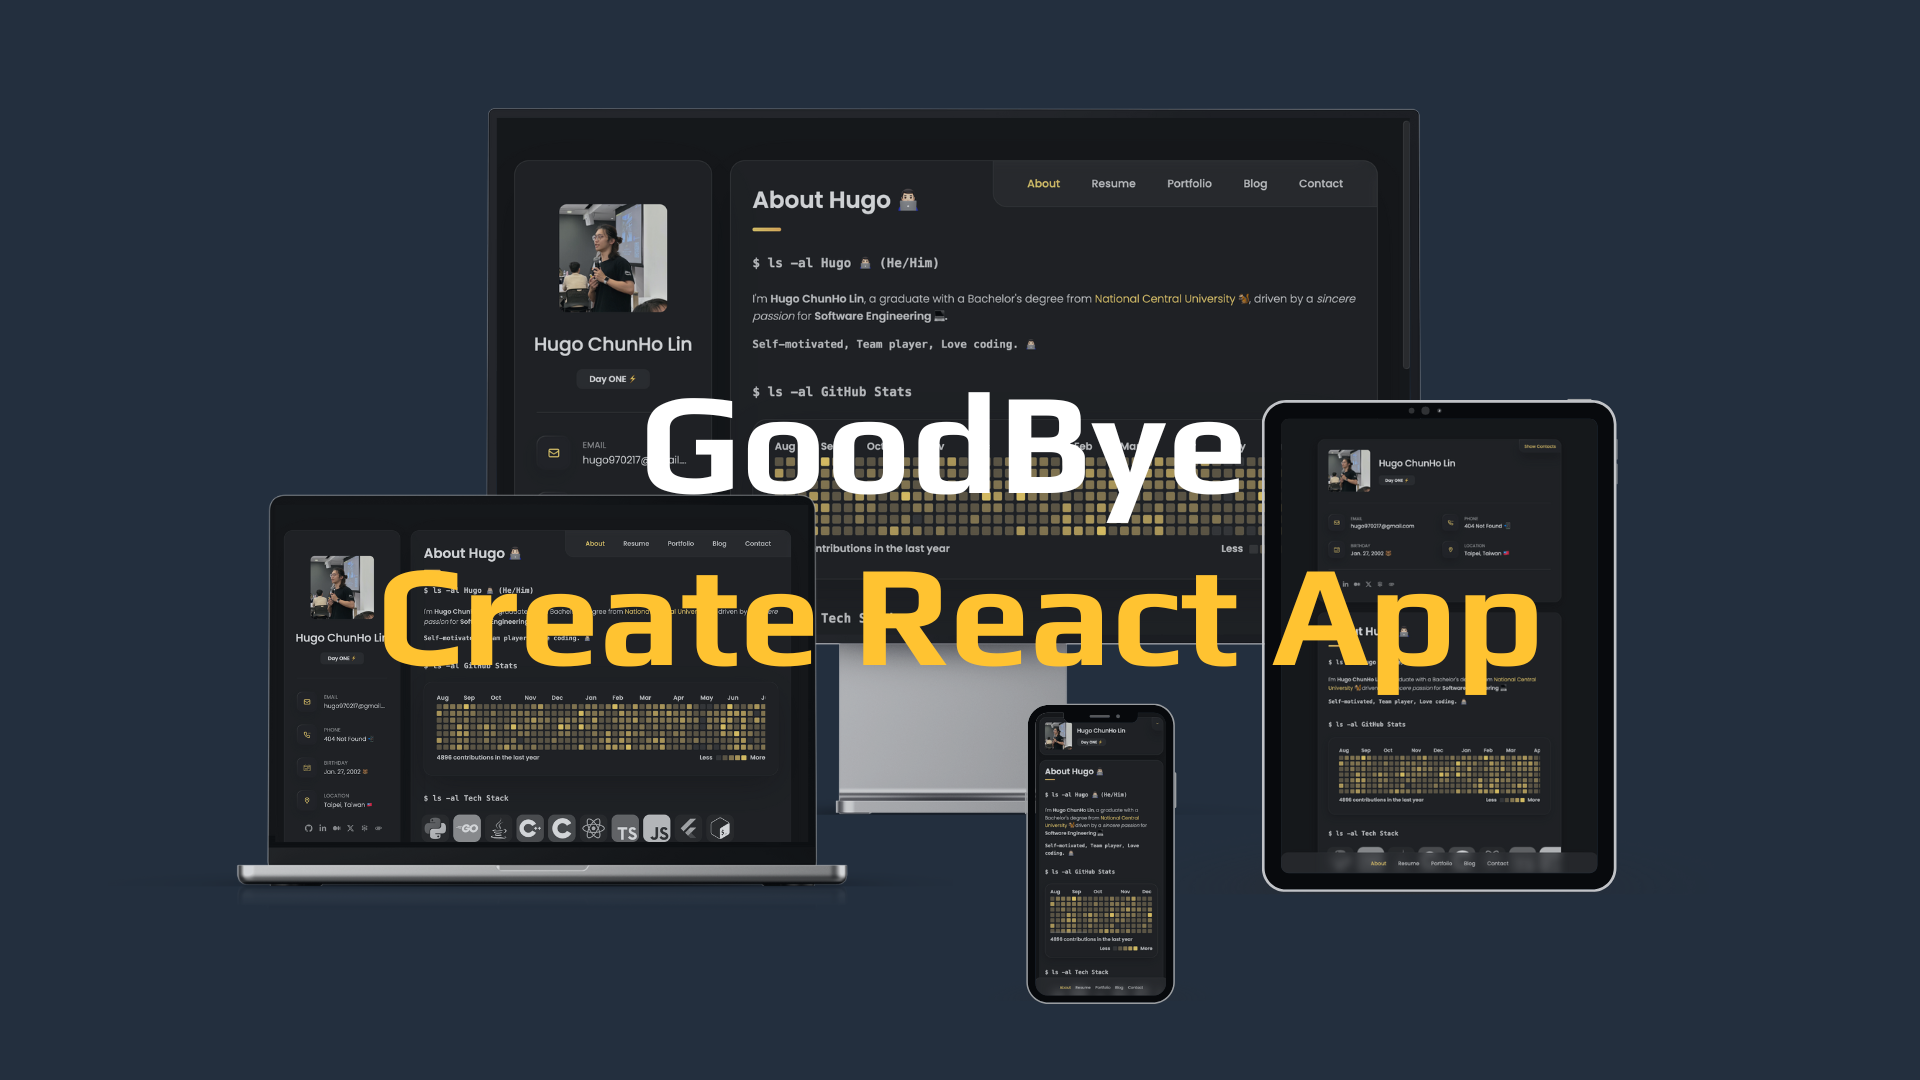
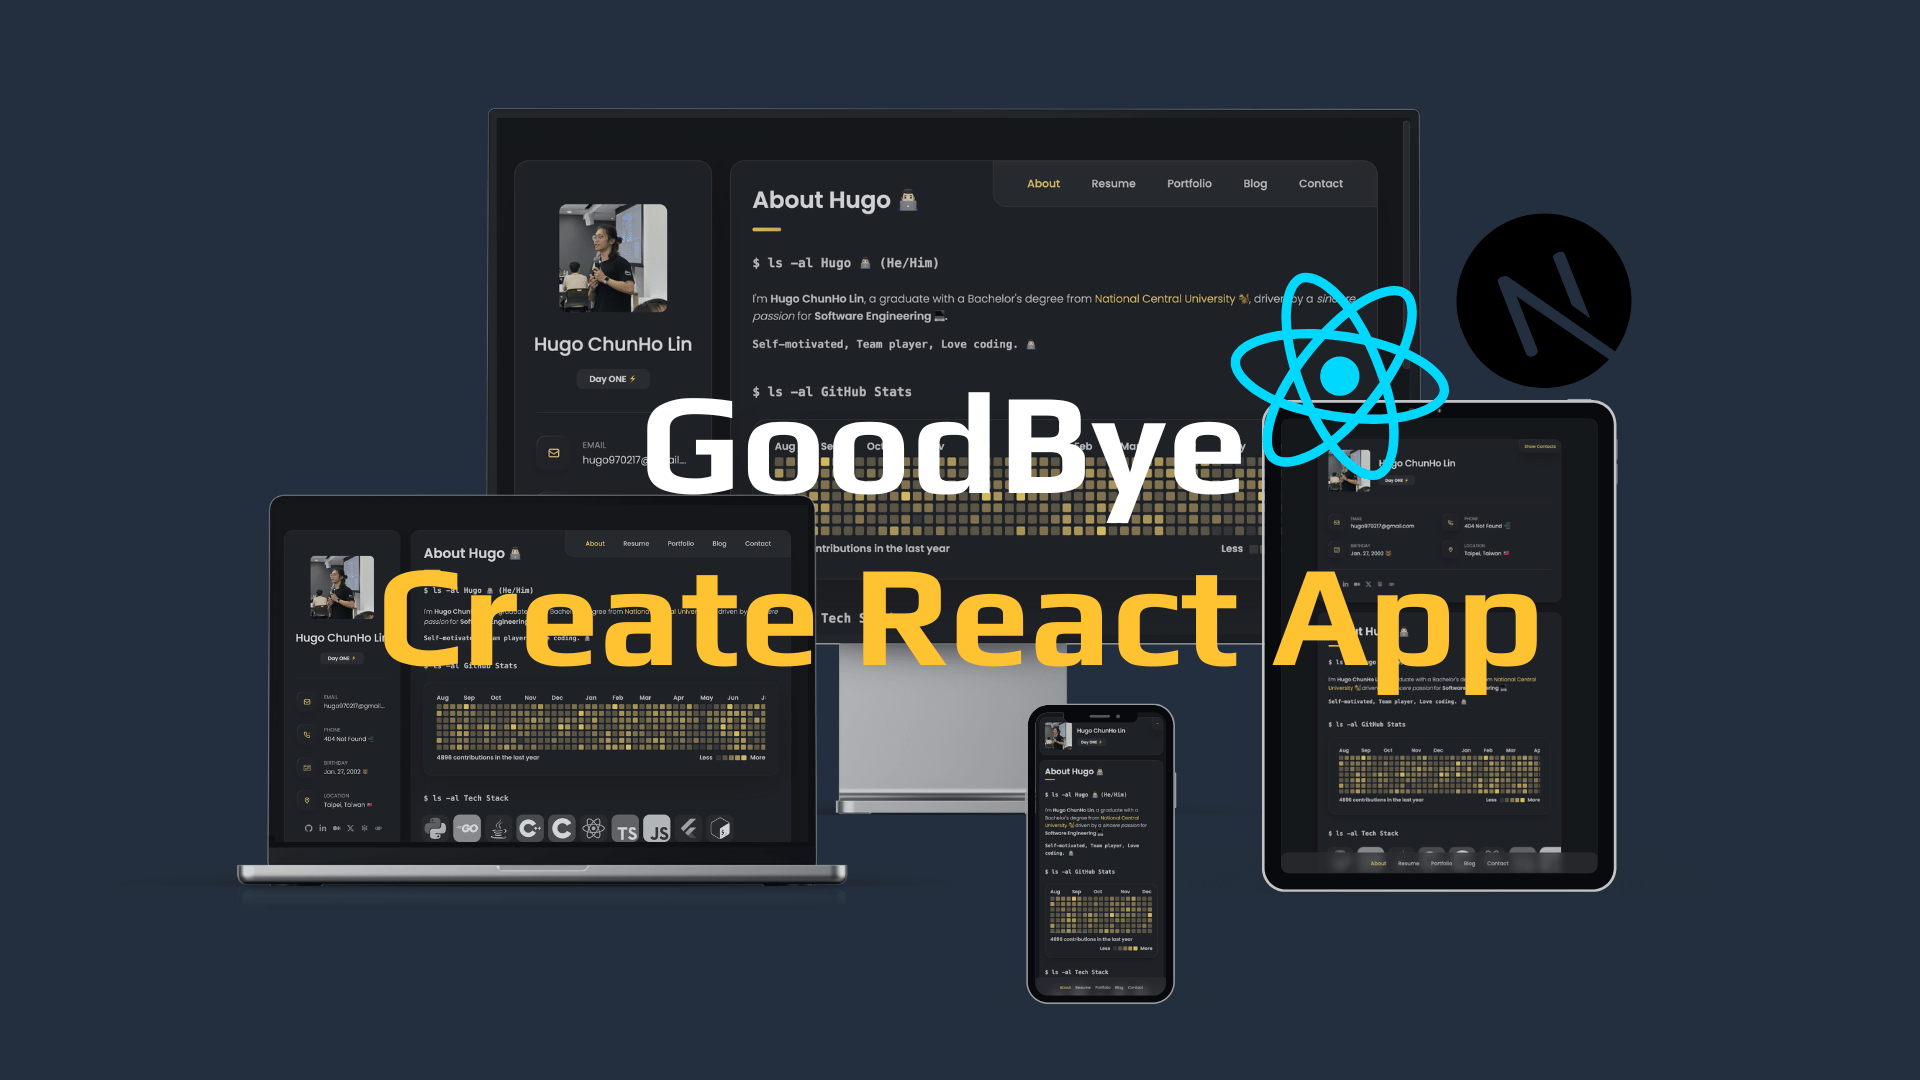
feat(post): add Updating an Outdated Create React App (CRA) to Support TypeScript 5.x

Changed region(s): [[0.625, 0.1833, 0.875, 0.4583]]

diff --git a/apps/web/src/contents/goodbye-react-create-app.md b/apps/web/src/contents/goodbye-react-create-app.md
@@ -1,17 +1,18 @@
 ---
-title: 讓老舊的 Create React App (CRA) 支援 TypeScript `5.x` 吧！
+title: Updating an Outdated Create React App (CRA) to Support TypeScript 5.x
 category: Project
 publishedAt: 2024-08-10
-summary: Create React App (CRA) 已經不再維護了，不過我們可以透過 `overrides` 來讓 CRA 支援 TypeScript `5.x` 的版本，讓我們來看看如何做吧！
+summary: Create React App (CRA) was officially deprecated by Facebook, and it's time to move on to other alternatives. However, we can still use CRA with TypeScript `5.x` by adding `overrides` to the `package.json`. Let's see how to do it!
 tags: 
   - React
   - Typescript
 banner: /images/banner/goodbye-react-create-app.png
-alt: 讓老舊的 Create React App (CRA) 支援 TypeScript `5.x` 吧！
+alt: Updating an Outdated Create React App (CRA) to Support TypeScript 5.x
 ---
 
+> Create React App (CRA) was officially deprecated by Facebook, and it's time to move on to other alternatives. However, we can still use CRA with TypeScript `5.x` by adding `overrides` to the `package.json`. Let's see how to do it!
 
-在最近這個暑假中，我幾乎都在為了我的個人網站 -- [1chooo.com](https://1chooo.com) 做開發，把一些過去想加上卻沒時間更新的技術債補回去，過去我採用的是 [React](https://react.dev/) 搭配 [TypeScript](https://www.typescriptlang.org/) 來開發，不過最近有遇到了一些問題，其中一個就是「[我無法將 Typescript 升級到 `^5` 的版本](https://github.com/1chooo/1chooo.com/pull/76)」，會出現以下的錯誤訊息：
+During this past summer, I dedicated most of my time to developing my personal website, [1chooo.com](https://1chooo.com), addressing several technical debts that I had postponed due to time constraints. In the past, I primarily used [React](https://react.dev/) alongside [TypeScript](https://www.typescriptlang.org/) for development. However, recently, I encountered some issues, one of which is related to "[chore(deps): bump typescript from 4.9.5 to 5.5.4](https://github.com/1chooo/1chooo.com/pull/76)." The following error message was displayed:
 
 ```typescript
 npm error code ERESOLVE
@@ -36,22 +37,23 @@ npm error node_modules/react-scripts
 npm error   react-scripts@"5.0.1" from the root project
 ```
 
-因此想透過本篇想紀錄的解決過程，以及相關脈絡資訊，如果電腦需要安裝 [Node.js, npm](https://nodejs.org/) 的話，可以參考我過去的文章 -- [如何在 Mac 安裝 Node.js & NPM](/2024/01/03/dev-env/mac-install-nodejs-npm/) 來安裝。
+Therefore, through this post, I aim to document the resolution process and provide the relevant contextual information. If your system requires the installation of [Node.js and npm](https://nodejs.org/), you can refer to my previous article — [How to Install Node.js & NPM on Mac](/blog/mac-install-nodejs-npm) — for installation instructions.
 
-![讓老舊的 Create React App (CRA) 支援 TypeScript `5.x` 吧！ by Hugo](/images/banner/goodbye-react-create-app.png)
+![Updating an Outdated Create React App (CRA) to Support TypeScript 5.x by Hugo](/images/banner/goodbye-react-create-app.png)
 
-過去我建立 React 專案的方式是透過 [`create-react-app` (CRA)](https://github.com/facebook/create-react-app) 來建立，不過在這次升級的過程中，我發現 [`create-react-app`](https://github.com/facebook/create-react-app) 似乎只支援到 [`v5.0.1`](https://github.com/facebook/create-react-app/releases/tag/v5.0.1) 的版本，並且可以從 Facebook 的 GitHub Repo 中發現，目前 CRA 已經沒有人在維護了，上次更新已經是 2022 年了，所以想當然爾，現在的 CRA 沒有支援 TypeScript `5.x` 的版本，只能支援到 `4.x` 的版本，這也是為什麼我目前無法升級 TypeScript 到 `5.x` 的原因。
+In the past, I used [`create-react-app` (CRA)](https://github.com/facebook/create-react-app) to set up my React projects. However, during this upgrade process, I discovered that CRA only supports up to [`v5.0.1`](https://github.com/facebook/create-react-app/releases/tag/v5.0.1). Looking at Facebook's GitHub repository, it's evident that CRA is no longer maintained, with its last update in 2022. Unsurprisingly, CRA does not support TypeScript `5.x`, only up to version `4.x`, which explains why I was unable to upgrade TypeScript to `5.x`.
+
 ![create-react-app v5.0.1](/images/posts/goodbye-react-create-app/create-react-app-v-5-0-1.png)
 
-因此我就開始在網路上搜尋為什麼 CRA 不再維護，以及有沒有其他的替代方案，首先我從 [React](https://react.dev/) 的官方文件中就寫明了建立 React App 的方式沒有 `create-react-app` 這個方式，反倒是建議使用像是 [Next.js, Remix, Gatsby, Expo (for native apps), etc.](https://react.dev/learn/start-a-new-react-project) 這些框架來建立 React App，我想這也是為什麼 CRA 不再維護的原因之一。
+I then started searching online for the reasons why CRA is no longer maintained and whether there are any alternatives. First, I found that [React’s](https://react.dev/) official documentation no longer mentions `create-react-app` as a recommended way to set up a React project. Instead, it suggests using frameworks like [Next.js, Remix, Gatsby, Expo (for native apps), etc.](https://react.dev/learn/start-a-new-react-project). This shift could be one of the reasons CRA is no longer supported.
 
 ![Start a New React Project](/images/posts/goodbye-react-create-app/start-a-new-react-project.png)
 
-我在 [Goodbye create-react-app](https://dev.to/ag2byte/create-react-app-is-officially-dead-h7o) 這篇文章中找到了一些 CRA 不再維護的原因，其中提到 CRA 這個專案已經被 Facebook 官方放棄了，主要是因為效能的關係，對於現行的方法而言太慢了，初始化的階段會花費太多時間，另外 CRA 也有一些因為過時所產生的警告，這些問題已經困擾開發者很久了，然而對於初學者來說也很難解決這些問題，因此 CRA 這個方式已經不再是最佳的選擇了。
+Additionally, I found an insightful article, [Goodbye create-react-app](https://dev.to/ag2byte/create-react-app-is-officially-dead-h7o), which outlines some of the reasons behind CRA’s discontinuation. The article explains that CRA was officially abandoned by Facebook due to performance issues. Specifically, it’s too slow for current needs, especially during initialization, and it produces outdated warnings that have frustrated developers for quite some time. These problems are also difficult for beginners to resolve, making CRA an outdated choice.
 
-另外我也在 [`create-react-app` (CRA)](https://github.com/facebook/create-react-app) 的 [Issues](https://github.com/facebook/create-react-app/issues/12628) 中找到一個別再用 CRA 的理由以及其他合適的建立 App 方法，總之挖掘資訊到現在，發現 CRA 基本上是被詬病已久的舊時代產物了，也是時候要更新。
+I also came across an [issue](https://github.com/facebook/create-react-app/issues/12628) in the [`create-react-app`](https://github.com/facebook/create-react-app) repository, which not only highlights reasons to avoid using CRA but also suggests alternatives for creating new apps. At this point, it became clear that CRA is an outdated relic of a previous era, and it's time to move on.
 
-不過身為軟體工程師，還是想要把問題解決，畢竟只是更新一個 Dependencies 而已，總會有解法讓我繼續使用 CRA 並且又能夠升級 TypeScript 到 `5.x` 的版本吧！於是我就找到了一個在 [`create-react-app`](https://github.com/facebook/create-react-app) 的 PR -- [(react-scripts) Support for TypeScript 5.x #13080](https://github.com/facebook/create-react-app/issues/13080)，這個 PR 也是關於 Typescript 升級不到 `5.x` 的問題，同時也有解決方法在裡面，其實只要在 `package.json` 中加入以下的 [`overrides`](https://docs.npmjs.com/cli/v8/configuring-npm/package-json#overrides) 就可以解決這個問題：
+However, as a software engineer, I still wanted to solve the immediate problem — after all, it's just a dependency update! Surely, there must be a workaround to keep using CRA while upgrading TypeScript to version `5.x`. Eventually, I found a pull request in the [`create-react-app`](https://github.com/facebook/create-react-app) repository — [(react-scripts) Support for TypeScript 5.x #13080](https://github.com/facebook/create-react-app/issues/13080) — that addresses the TypeScript upgrade issue and provides a solution. By simply adding the following [`overrides`](https://docs.npmjs.com/cli/v8/configuring-npm/package-json#overrides) to the `package.json`, the problem can be resolved:
 
 ```json
 "dependencies": {
@@ -63,8 +65,8 @@ npm error   react-scripts@"5.0.1" from the root project
 },
 ```
 
-這邊要特別注意，`overrides` 的版本要跟 dependencies 中 TypeScript 的版本一樣，這樣才能夠解決這個問題。如果想瞭解更多 `overrides` 的用法，可以參考 [`package.json`](https://docs.npmjs.com/cli/v8/configuring-npm/package-json#overrides) 的官方文件以了解更多。
+It's important to ensure that the version specified in `overrides` matches the TypeScript version in the dependencies to resolve the issue. For more information on using `overrides`, you can refer to the official [`package.json`](https://docs.npmjs.com/cli/v8/configuring-npm/package-json#overrides) documentation.
 
-目前到這邊已經算是成功解決 Typescript 升級到 `5.x` 的問題了，不過我覺得這樣其實治標不治本，畢竟 CRA 已經是沒有在維護的工具了，因此我也開啟了一個新的坑，那就是把我的 React App 整合到 [Next.js](https://nextjs.org/) 中，這樣就可以解決 CRA 不再維護的問題，同時也可以享受到 Next.js 的優點，這也是我接下來為自己開的新坑。
+At this point, the TypeScript upgrade issue is successfully resolved. However, I see this as a temporary fix since CRA is no longer maintained. This has opened up a new path for me — migrating my React app to [Next.js](https://nextjs.org/), which not only addresses the lack of CRA support but also brings the benefits of Next.js. This is the new challenge I’ve set for myself.
 
-未來我會持續更新這個坑，並且把我的 React App 整合到 Next.js 中，希望可以順利完成這個整合，因為目前搜尋下來看起來是要整份重寫了⋯⋯想看更多的話可以持續關注，也可以參觀我目前的個人網站 -- [1chooo.com](https://1chooo.com)，也可以到 GitHub 上看到網站的原始碼 -- [1chooo/1chooo.com](https://github.com/1chooo/1chooo.com)，我將會持續更新，希望這篇可以幫助到需要的人喔～
+In the future, I plan to continue documenting my progress as I integrate my React app into Next.js, hoping the migration goes smoothly (even though it looks like I'll need to rewrite a lot!). Stay tuned for more updates, and feel free to check out my current personal website — [1chooo.com](https://1chooo.com) — or view the code on GitHub — [1chooo/1chooo.com](https://github.com/1chooo/1chooo.com). I hope this post helps anyone who’s facing similar issues!
